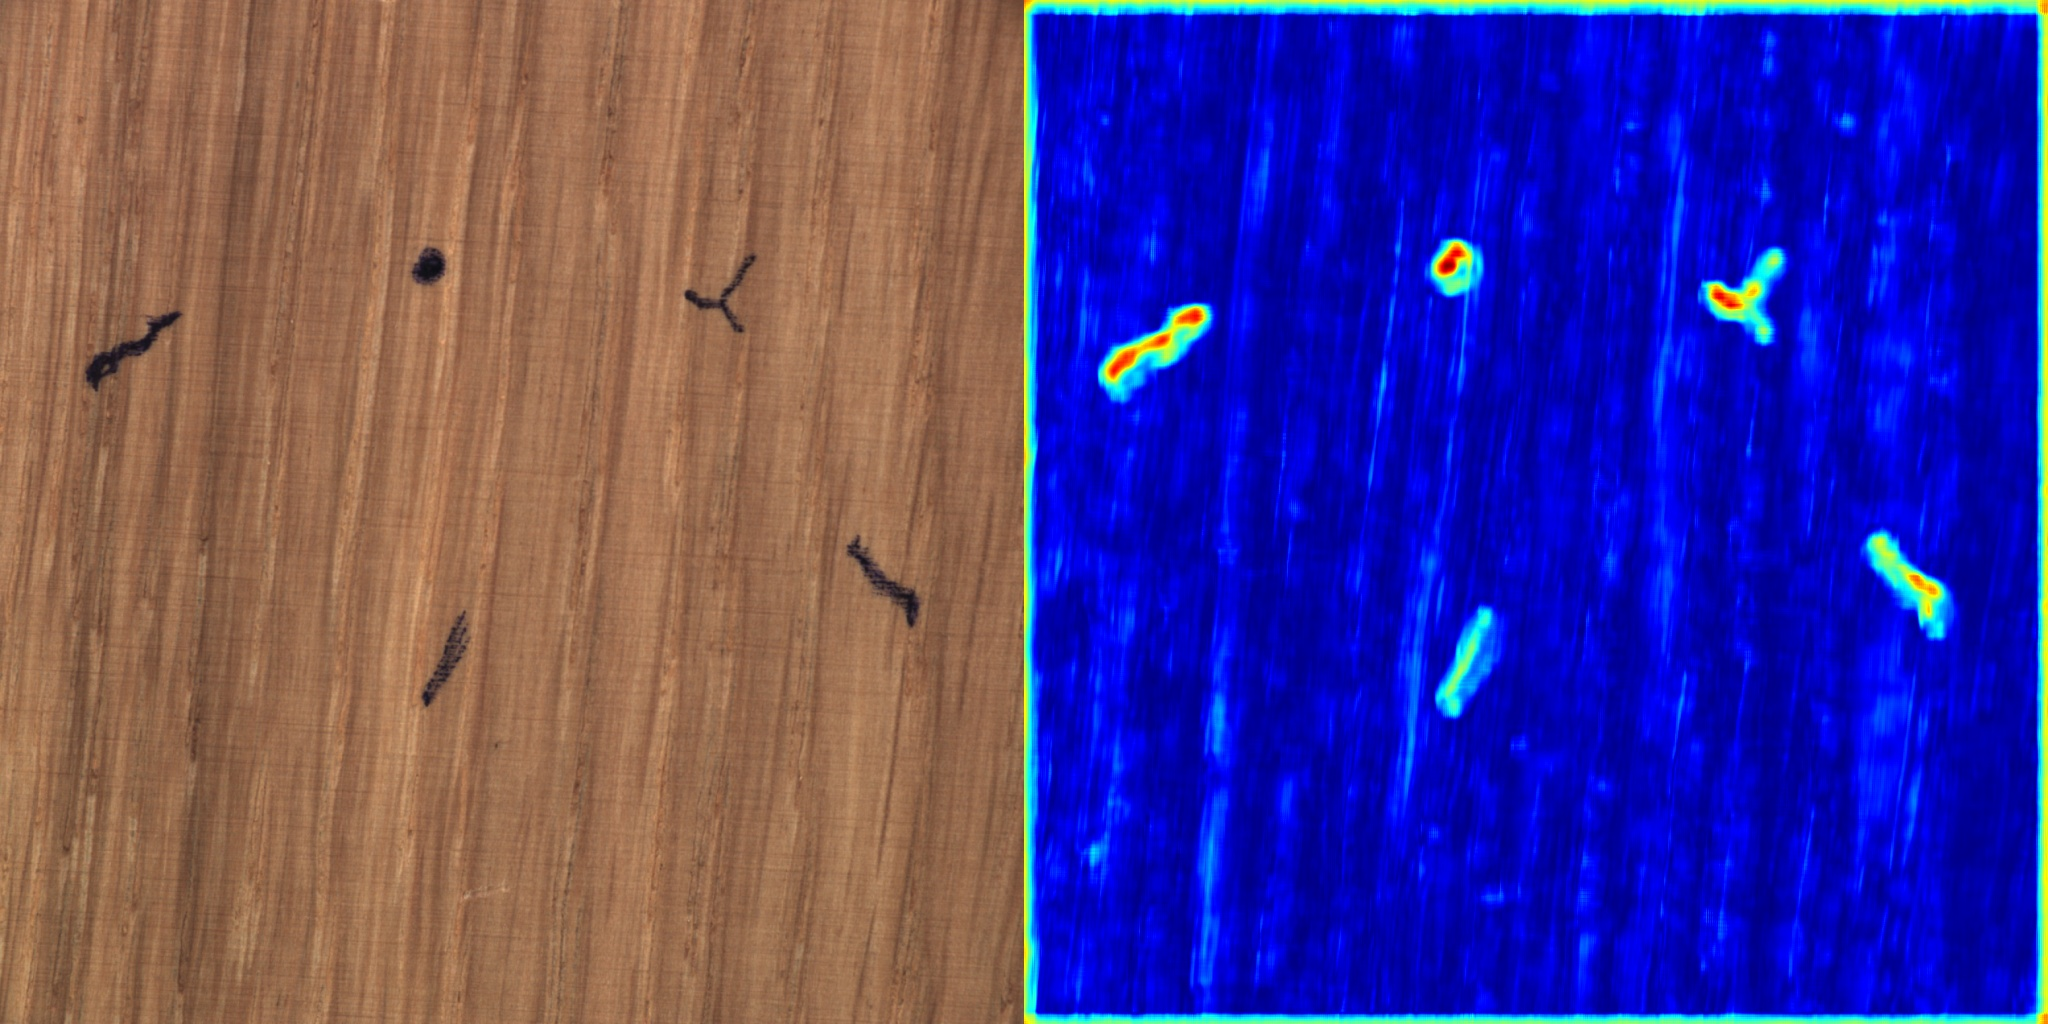
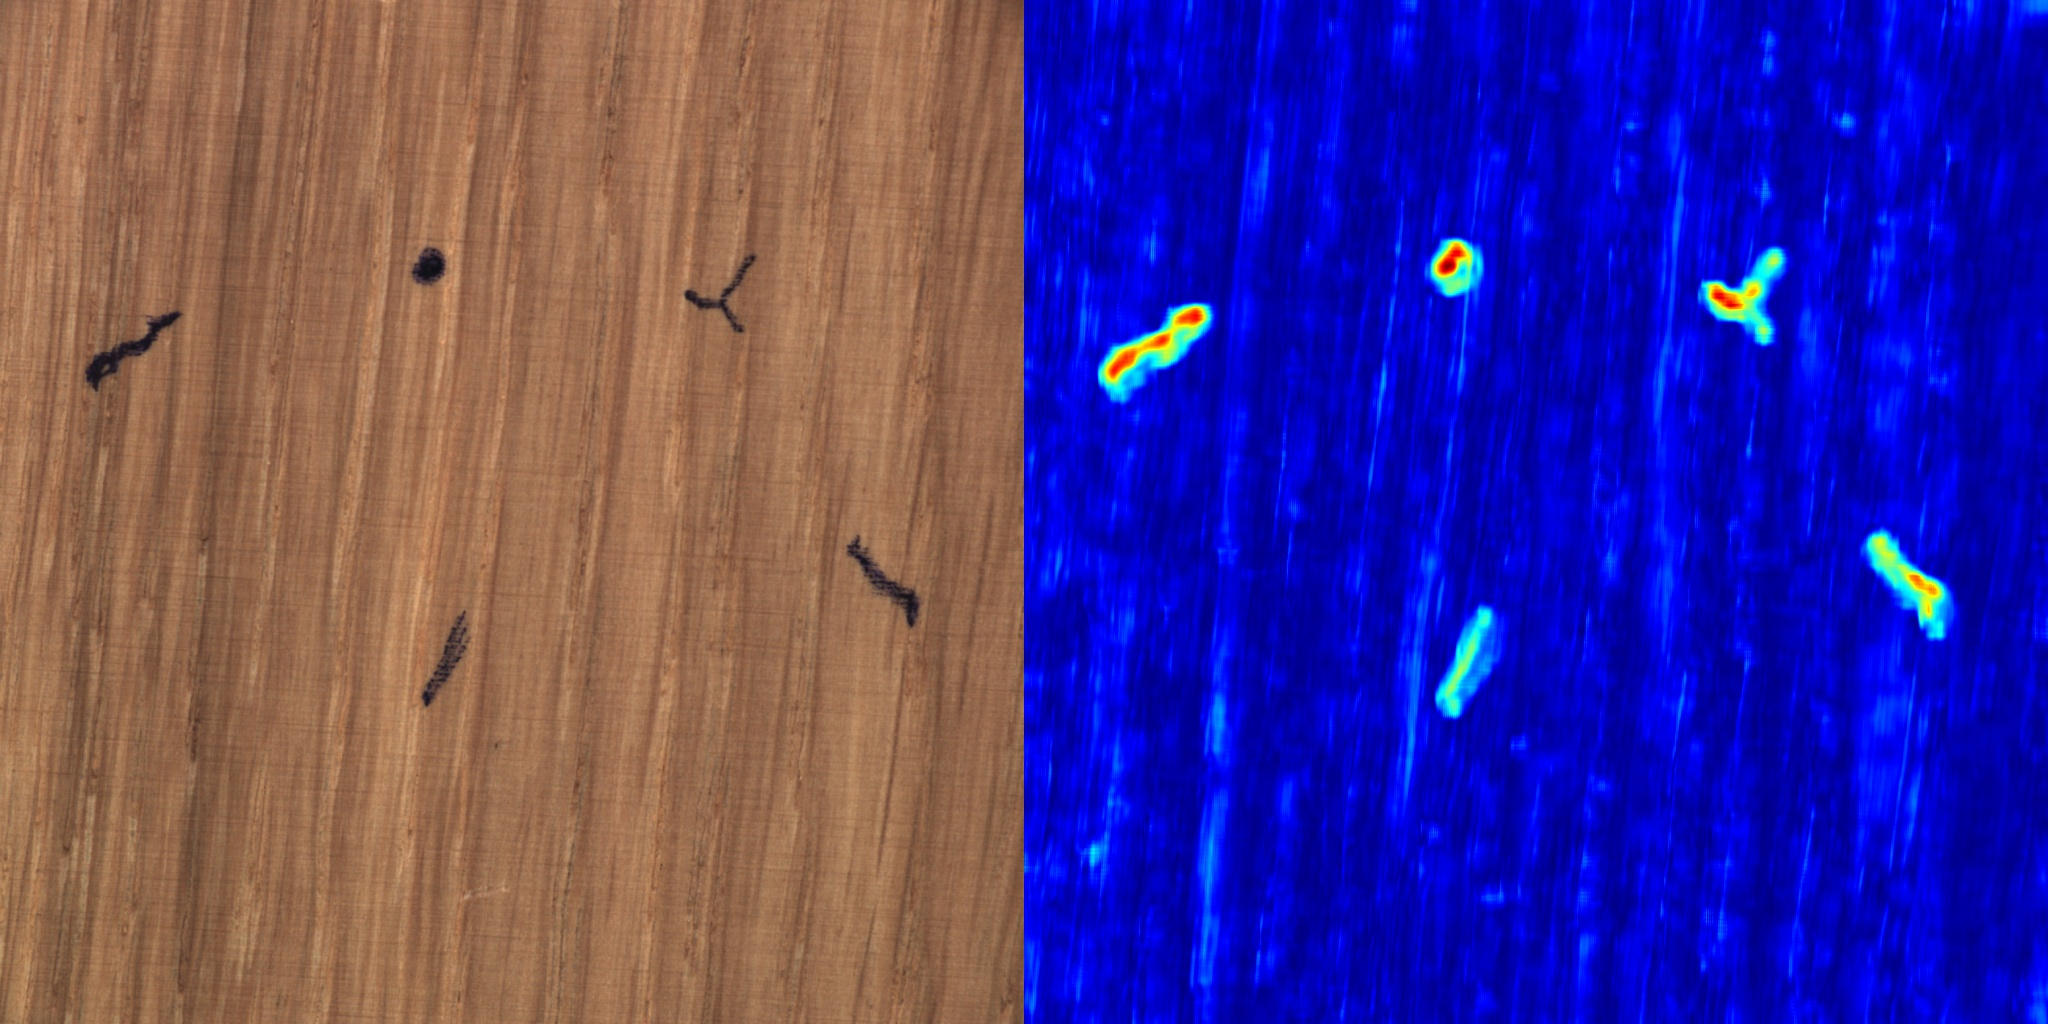
pad with 'reflect' mode

Changed region(s): [[0.5, 0.0, 1.0, 1.0]]

diff --git a/fast_dense_feature_extractor.py b/fast_dense_feature_extractor.py
@@ -31,7 +31,8 @@ class multiPoolPrepare(nn.Module):
 
     def forward(self, x):
         y = F.pad(x, [self.pad_left, self.pad_right,
-                      self.pad_top, self.pad_bottom], value=0)
+                      self.pad_top, self.pad_bottom], mode='reflect')
+        #    value=0)
         return y
 
 
